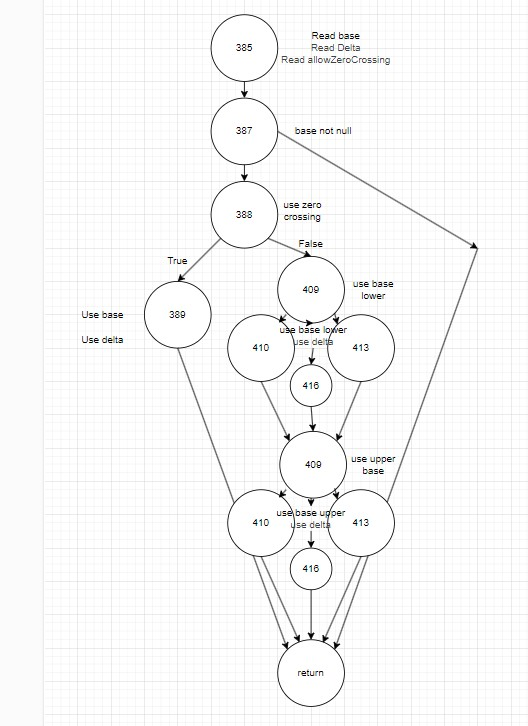
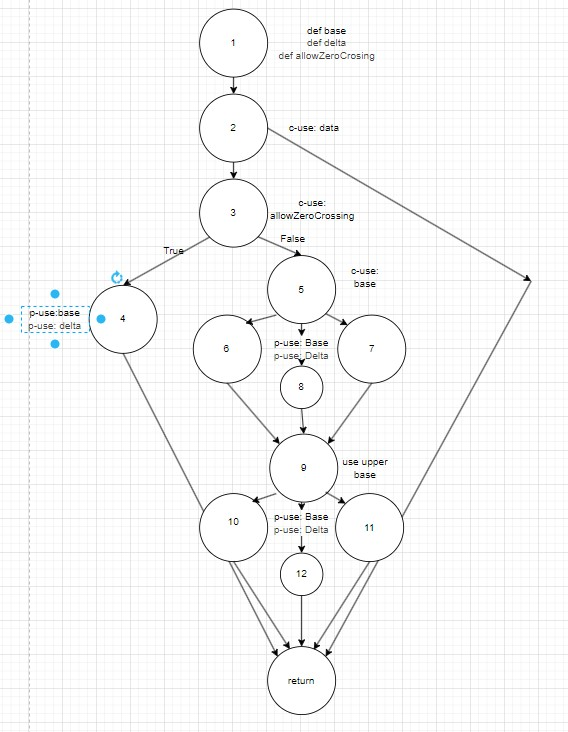
fixed dfg for range

diff --git a/seng438-a3-16.md b/seng438-a3-16.md
@@ -76,39 +76,39 @@ DU pair coverage = (Covered DU-pairs) / (Total DU-pairs) = (24 / 26) x 100 = 92.
 
 |   **Node**  |             **Def**              |       **Use**       |
 |-------------|----------------------------------|---------------------|
-|     385     |  base, delta, allowZeroCrossing  |         -           |
-|     387     |                -                 |        base         |
-|     388     |                -                 |  allowZeroCrossing  |
-|     389     |                -                 |    base, delta      |
-|     409     |                -                 |        base         |
-|     410     |                -                 |    base, delta      |
-|     413     |                -                 |    base, delta      |
-|     416     |                -                 |    base, delta      |
+|      1      |  base, delta, allowZeroCrossing  |         -           |
+|      2      |                -                 |        base         |
+|      3      |                -                 |  allowZeroCrossing  |
+|      4      |                -                 |    base, delta      |
+|     5/9     |                -                 |        base         |
+|    6/10     |                -                 |    base, delta      |
+|     7/11    |                -                 |    base, delta      |
+|     8/12    |                -                 |    base, delta      |
 
 
 **DU-pairs:**
 
 | **Variable**        |                                 **DU Pair**                            |
 |---------------------|------------------------------------------------------------------------|
-| base                |  (385, 387) (385, 389) (385, 409) (385, 410) (385, 413) (385, 416)     |
-| delta               |  (385, 389) (385, 410) (385, 413) (385, 416)                           |
-| allowZeroCrossing   |  (385, 416)                                                            |
+| base                |  (1, 2) (1, 4) (1, 5/9) (1, 6/10) (1, 7/11) (1, 8/12)     |
+| delta               |  (1, 4) (1, 6/10) (1, 7/11) (1, 8/12)                           |
+| allowZeroCrossing   |  (1, 8/12)                                                            |
 
 **Test Cases Coverage:**
  
 |                         **Test Cases**                              |                             **Pairs Covered**                              |
 |:-------------------------------------------------------------------:|:--------------------------------------------------------------------------:|
-|testPositiveDeltaValueWithNoZeroCrossingAndZeroCrossingFalseForShift | (385,388), (385,409), (385,410), (385,413), (385,410), (385,413), (385,387)|
-|testNegativeDeltaValueWithNoZeroCrossingAndZeroCrossingFalseForShift | (385,388), (385,409), (385,410), (385,413), (385,410), (385,413), (385,387)|
-|testPositiveDeltaValueWithNoZeroCrossingAndZeroCrossingTrueForShift  | (385,388), (385,389), (385,389), (385,387)                                 |
-|testNegativeDeltaValueWithNoZeroCrossingAndZeroCrossingTrueForShift  | (385,388), (385,389), (385,389), (385,387)                                 |
-|testNegativeDeltaValueWithZeroCrossingFalseForShift                  | (385,388), (385,409), (385,410), (385,413), (385,410), (385,413), (385,387)|
-|testPositiveDeltaValueWithZeroCrossingFalseForShift                  | (385,388), (385,409), (385,410), (385,413), (385,410), (385,413), (385,387)|
-|testNegativeDeltaValueWithZeroCrossingTrueForShift                   | (385,388), (385,389), (385,389), (385,387)                                 |
-|testPositiveDeltaValueWithZeroCrossingTrueForShift                   | (385,388), (385,389), (385,389), (385,387)                                 |
-|testZeroDeltaValueWithZeroCrossingFalseForShift                      | (385,388), (385,409), (385,410), (385,413), (385,410), (385,413), (385,387)|
-|testZeroDeltaValueWithZeroCrossingTrueForShift                       | (385,388), (385,389), (385,389), (385,387)                                 |
-|testExceptionWhenNullRangePassedForShift                             | (385,387)                                                                  |
+|testPositiveDeltaValueWithNoZeroCrossingAndZeroCrossingFalseForShift | (1,3), (1,5/9), (1,6/10), (1,7/11), (1,6/10), (1,7/11), (1,2)|
+|testNegativeDeltaValueWithNoZeroCrossingAndZeroCrossingFalseForShift | (1,3), (1,5/9), (1,6/10), (1,7/11), (1,6/10), (1,7/11), (1,2)|
+|testPositiveDeltaValueWithNoZeroCrossingAndZeroCrossingTrueForShift  | (1,3), (1,4), (1,4), (1,2)                                 |
+|testNegativeDeltaValueWithNoZeroCrossingAndZeroCrossingTrueForShift  | (1,3), (1,4), (1,4), (1,2)                                 |
+|testNegativeDeltaValueWithZeroCrossingFalseForShift                  | (1,3), (1,5/9), (1,6/10), (1,7/11), (1,6/10), (1,7/11), (1,2)|
+|testPositiveDeltaValueWithZeroCrossingFalseForShift                  | (1,3), (1,5/9), (1,6/10), (1,7/11), (1,6/10), (1,7/11), (1,2)|
+|testNegativeDeltaValueWithZeroCrossingTrueForShift                   | (1,3), (1,4), (1,4), (1,2)                                 |
+|testPositiveDeltaValueWithZeroCrossingTrueForShift                   | (1,3), (1,4), (1,4), (1,2)                                 |
+|testZeroDeltaValueWithZeroCrossingFalseForShift                      | (1,3), (1,5/9), (1,6/10), (1,7/11), (1,6/10), (1,7/11), (1,2)|
+|testZeroDeltaValueWithZeroCrossingTrueForShift                       | (1,3), (1,4), (1,4), (1,2)                                 |
+|testExceptionWhenNullRangePassedForShift                             | (1,2)                                                                  |
 
 **DU pair Coverage:**
 
